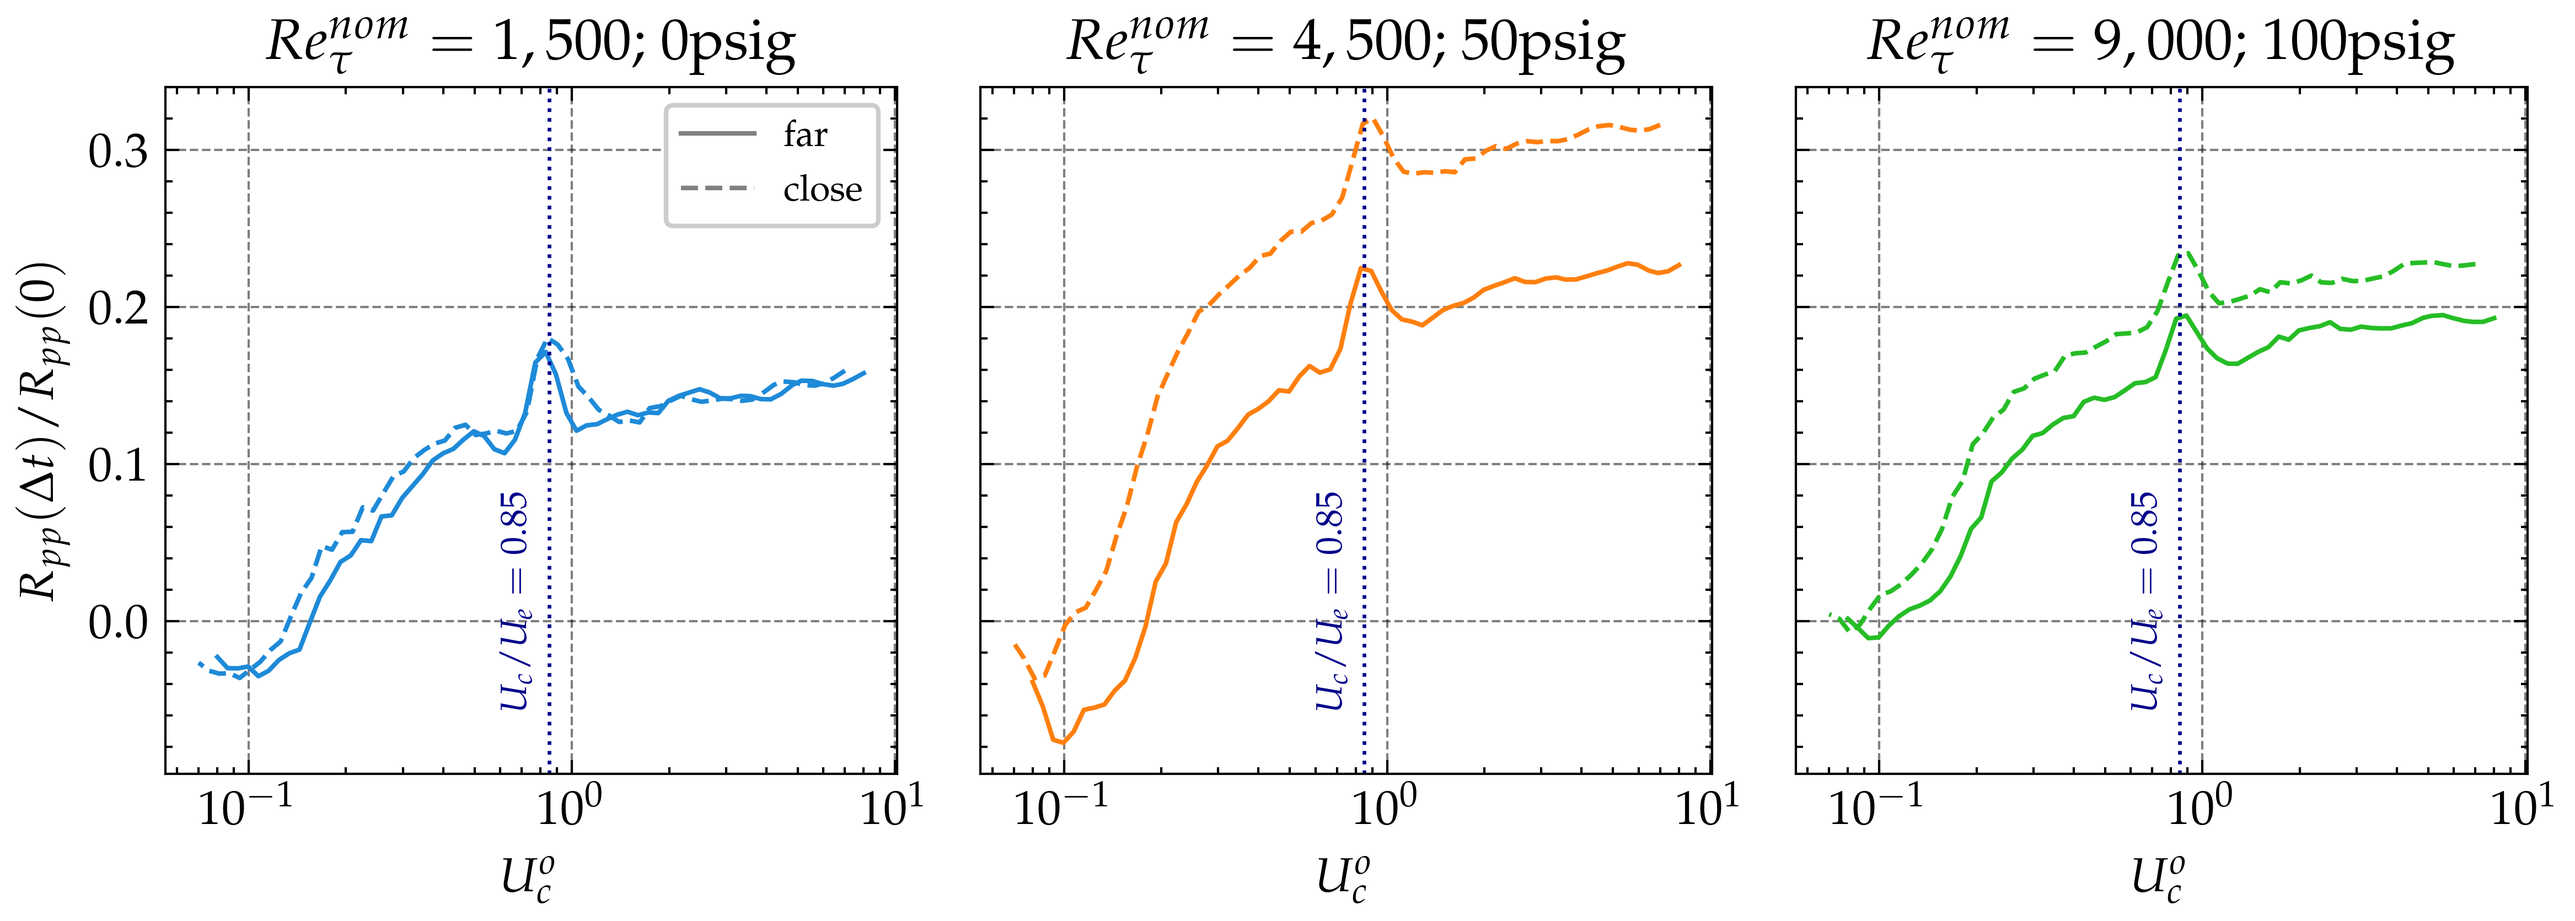
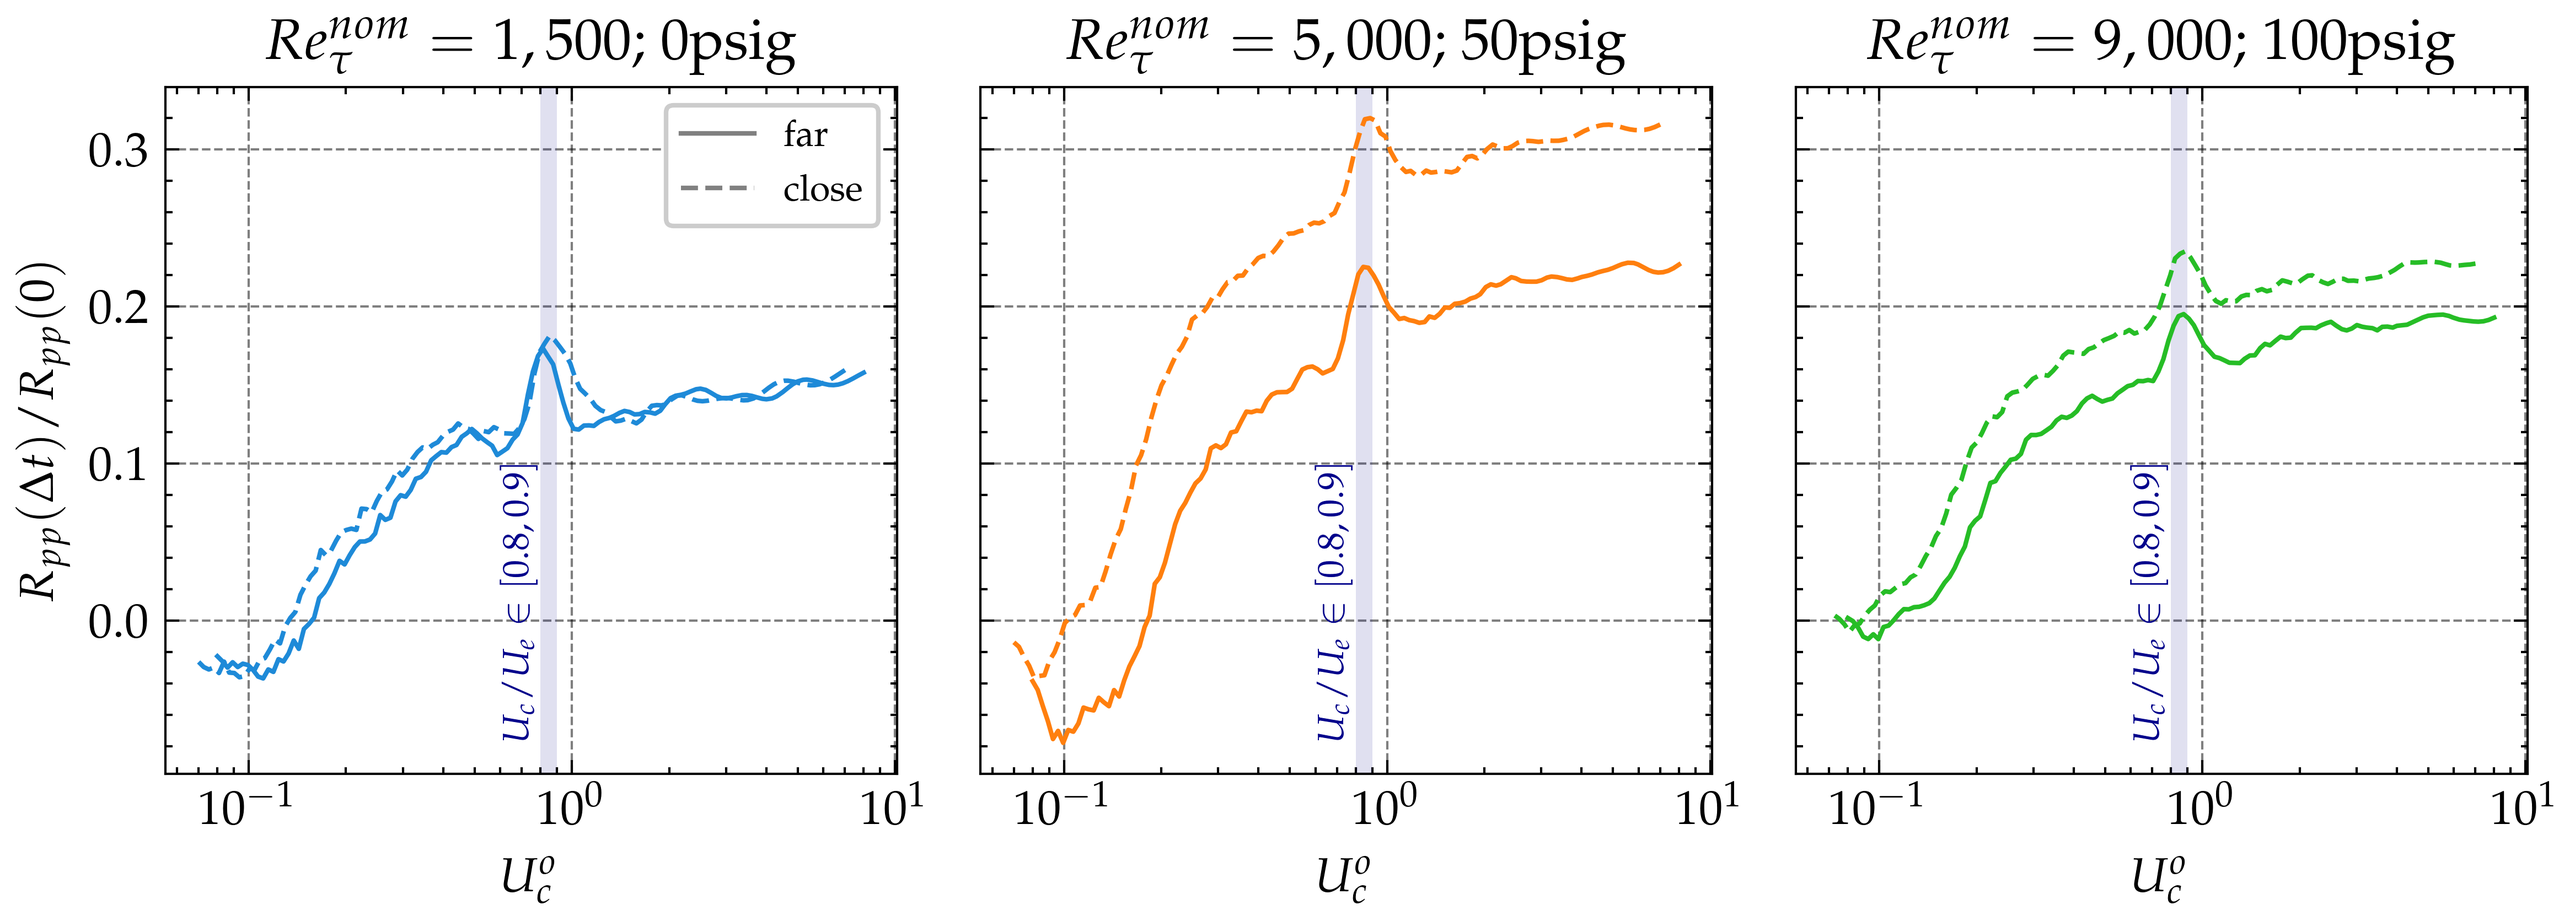
Okay, final final done

diff --git a/src/plot/from_data/SU_two_point.py b/src/plot/from_data/SU_two_point.py
@@ -243,7 +243,8 @@ def plot_2pt_outer():
 
 def plot_2pt_speed_outer():
     labels = ['0psig', '50psig', '100psig']
-    Re_nom = [1_500, 4_500, 9_000]
+    Re_nom = [1_500, 5_000, 9_000]
+
 
 
 
@@ -290,7 +291,7 @@ def plot_2pt_speed_outer():
 
             # log-spaced time lags between 0.01 and 1 s
             tmin, tmax = 0.001, 0.1 # seconds
-            lags_sec = np.logspace(np.log10(tmin), np.log10(tmax), 64)
+            lags_sec = np.logspace(np.log10(tmin), np.log10(tmax), 128)
             lags_samp = np.unique(np.round(lags_sec * fs).astype(int))  # integer sample lags
             lags_sec = lags_samp / fs  # snap back to actual times
 
@@ -323,8 +324,11 @@ def plot_2pt_speed_outer():
             re_labs = fr'$Re_\tau^{{nom}}={Re_nom[i]:,.0f}$; {labels[i]}'
             ax.set_title(f"{re_labs}")
             ax.set_xlabel(r"$U_c^o$")
-            ax.axvline(0.85, color='darkblue', linestyle=':', lw=0.8)
-            ax.annotate(r'$U_c/U_e=0.85$', xy=(0.6, -0.05), xycoords='data', rotation=90, fontsize=8, color='darkblue')
+            # ax.axvline(0.85, color='darkblue', linestyle=':', lw=0.8)
+            # ax.axvline(0.8, color='darkblue', linestyle=':', lw=0.8)
+            # highlight region between the two reference lines
+            ax.axvspan(0.8, 0.9, color='darkblue', alpha=0.12, edgecolor='none', linewidth=0)
+            ax.annotate(r'$U_c/U_e\in[0.8,0.9]$', xy=(0.6, -0.07), xycoords='data', rotation=90, fontsize=8, color='darkblue')
 
         custom_lines = [
             Line2D([0], [0], color='gray', linestyle='-', lw=1),

diff --git a/src/plot/from_data/F_freestreamp_SU_production.py b/src/plot/from_data/F_freestreamp_SU_production.py
@@ -46,7 +46,7 @@ def compute_spec(x: np.ndarray, fs: float = FS, nperseg: int = NPERSEG):
 
 def plot_fs_raw():
     psigs = ['0psig', '50psig', '100psig']
-    Re_noms = [1_500, 4_500, 9_000]
+    Re_noms = [1_500, 5_000, 9_000]
     fig, ax = plt.subplots(1, 2, figsize=(6, 3), sharey=True)
     ax[0].set_title("NC--close run")
     ax[1].set_title("NC--far run")

diff --git a/src/plot/from_data/F_freestreamp_SU_raw.py b/src/plot/from_data/F_freestreamp_SU_raw.py
@@ -46,7 +46,7 @@ def compute_spec(x: np.ndarray, fs: float = FS, nperseg: int = NPERSEG):
 
 def plot_fs_raw():
     psigs = ['0psig', '50psig', '100psig']
-    Re_noms = [1_500, 4_500, 9_000]
+    Re_noms = [1_500, 5_000, 9_000]
     fig, ax = plt.subplots(1, 2, figsize=(6, 3), sharey=True)
     ax[0].set_title("NC--close run")
     ax[1].set_title("NC--far run")
